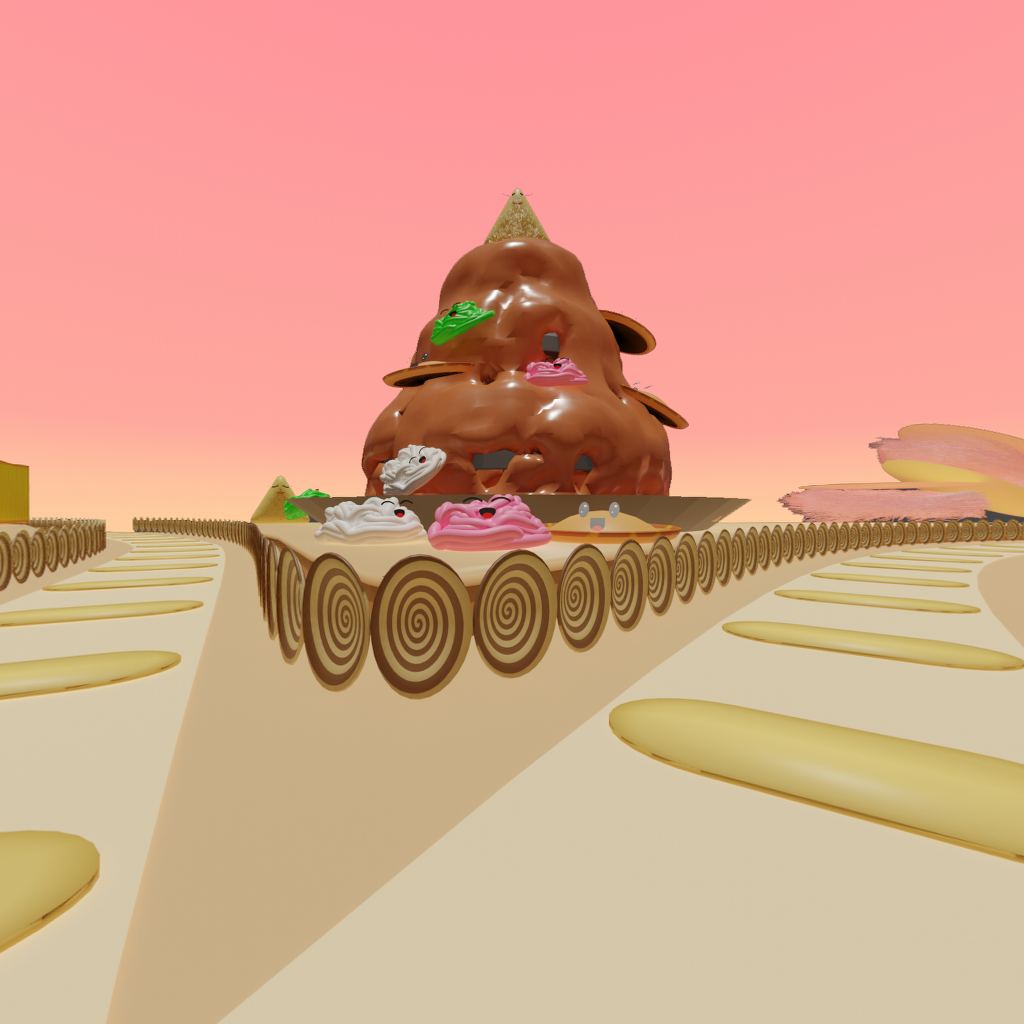
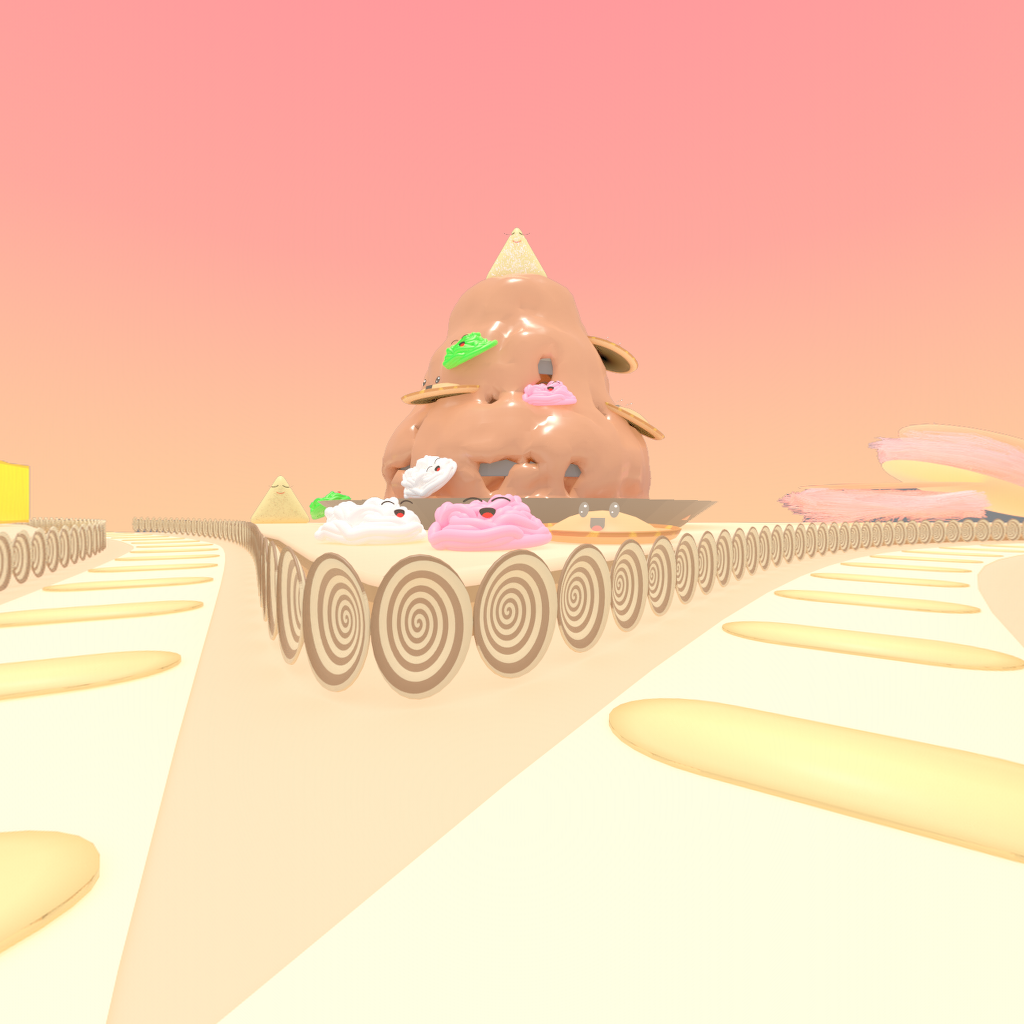
update gamma

diff --git a/js/foody-test.js b/js/foody-test.js
@@ -5,6 +5,8 @@ import { EffectComposer } from '../three/examples/jsm/postprocessing/EffectCompo
 import { RenderPass } from '../three/examples/jsm/postprocessing/RenderPass.js';
 import { ShaderPass } from '../three/examples/jsm/postprocessing/ShaderPass.js';
 import { GradientMapShader } from '../three/examples/jsm/shaders/GradientMapShader.js';
+import { BrightnessContrastShader } from '../three/examples/jsm/shaders/BrightnessContrastShader.js';
+import { GammaCorrectionShader } from '../three/examples/jsm/shaders/GammaCorrectionShader.js';
 import { Character } from './character.js';
 import { setupRenderer, setupCamera } from './essential.js';
 
@@ -41,12 +43,12 @@ let loadingScreen = document.getElementById("loading-screen");
 // let backgroundText = document.getElementById("background-text");
 
 let objectDescriptionEN = ["Martabak Manis is the king of indonesia dessert, it is sinfully good",
-"a very springy and chewy cake.","String hopper dish made of rice flour","Grandma hair but made of sugar",
+"Spongy chewy golden cake.","String hopper dish made of rice flour","Grandma hair but made of sugar",
 "Javanese sncek made of Cassava","Amazing cold dessert in indonesia since its hot here almost all year.",
 "Kue Mangkok Uhuy"]
 
-let objectDescriptionID = ["Martabak Manis adalah raja Indonesia pencuci mulut, itu adalah sinfully baik",
-"kue yang sangat kenyal dan kenyal","Piring hopper terbuat dari tepung beras", "Rambut nenek tapi terbuat dari gula",
+let objectDescriptionID = ["Martabak Manis adalah raja street food indonesia, dosa yang sangat nikmat",
+"Bika Ambon tapi bukan dari ambon","Piring hopper terbuat dari tepung beras", "Rambut nenek tapi terbuat dari gula",
 "Sncek Jawa terbuat dari Singkong", "Makanan penutup dingin yang luar biasa di Indonesia karena di sini panas hampir sepanjang tahun.",
 "Kue Mangkok Uhuy"]
 
@@ -174,6 +176,8 @@ function setupSkyBox(){
 	'images/skybox_1024/pz.png',
 	'images/skybox_1024/nz.png',
 	]);
+	skyboxTexture.format = THREE.RGBFormat;
+	skyboxTexture.encoding = THREE.sRGBEncoding;	
 	scene.background = skyboxTexture;	
 	scene.environment = skyboxTexture;	
 }
@@ -182,12 +186,12 @@ function setupLight(){
 	// ff849c pink
 	// ffce9f cream
 	const skyColor = 0xffffff; 
-	const groundColor = 0xffffff;
+	const groundColor = 0xffce9f;
 	const intensity = 1;
 	// const light = new THREE.HemisphereLight(skyColor, groundColor, intensity);
 	// scene.add( light );	
 	const ambLight = new THREE.AmbientLight( skyColor , intensity); // soft white light
-	scene.add( ambLight );	
+	scene.add( ambLight );
 }
 
 function resizeRendererToDisplaySize(renderer) {
@@ -342,7 +346,9 @@ function main(){
 	composer = new EffectComposer(renderer);
 	composer.setSize(canvas.clientWidth,canvas.clientHeight);
 	composer.addPass(new RenderPass(scene,camera));
-	composer.addPass(new ShaderPass( GradientMapShader ));
+	// composer.addPass(new ShaderPass(BrightnessContrastShader));
+	composer.addPass(new ShaderPass(GradientMapShader));
+	composer.addPass(new ShaderPass(GammaCorrectionShader));	
 	
 	setupLight();
 	setupSkyBox();
@@ -351,8 +357,38 @@ function main(){
 			let model = models[i].scene || models[i].scenes[0];	
 			let clips = models[i].animations || [];
 			model.scale.set(1,1,1);
-			model.position.set(0,0,0);
-			scene.add( model );				
+			// if(model.children[0].children.length>0){
+				// model.children[0].children.forEach(function(child){
+					// if(child.material.map != null){
+						// console.log("Image")
+					// }else{
+						// // child.material.roughness = 1;
+						// // let newMat = new THREE.MeshBasicMaterial();
+						// // newMat.color = child.material.color;
+						// // newMat.name = child.material.name;
+						// // child.material = newMat;
+					// }
+					// // console.log(child.material.name + " " + child.material.color.getHexString() );
+					// // child.material.color = child.material.color.convertSRGBToLinear();
+					// // child.material.needUpdates = true;
+				// });
+			// }else{
+				// if(model.children[0].material.map != null){
+					// console.log("Image")
+				// }else{
+					// // model.children[0].material.roughness = 1;		
+					// // let newMat = new THREE.MeshBasicMaterial();
+					// // newMat.color = model.children[0].material.color;
+					// // newMat.name = model.children[0].name;
+					// // model.children[0].material = newMat;
+				// }
+				// // console.log(model.children[0].material.name + " " + model.children[0].material.color.getHexString() );
+				// // model.children[0].material.color = model.children[0].material.color.convertSRGBToLinear();
+				// // model.children[0].material.needUpdates = true;
+			// }
+						
+			scene.add( model );		
+
 			if(clips.length != 0){
 				mixers.push(new THREE.AnimationMixer(model));
 				let action = mixers[mixers.length-1].clipAction(clips[0]);

diff --git a/js/essential.js b/js/essential.js
@@ -2,6 +2,10 @@ export function setupRenderer(renderer,canvas,paramsTone){
 	//anti alias make the object less jagged or squary feel
 	renderer = new THREE.WebGLRenderer({antialias: true, preserveDrawingBuffer: true,canvas});
 	renderer.setPixelRatio( window.devicePixelRatio );
+	renderer.outputEncoding = THREE.sRGBEncoding;
+	// renderer.toneMapping = THREE.ACESFilmicToneMapping;
+	// renderer.toneMappingExposure = 1;
+	console.log(renderer.toneMappingExposure);
 	// document.getElementById("canvasBlend").appendChild( renderer.domElement );	
 	document.body.appendChild( renderer.domElement );	
 	return renderer;

diff --git a/three/examples/jsm/shaders/BrightnessContrastShader.js b/three/examples/jsm/shaders/BrightnessContrastShader.js
@@ -10,8 +10,8 @@ var BrightnessContrastShader = {
 	uniforms: {
 
 		'tDiffuse': { value: null },
-		'brightness': { value: 0 },
-		'contrast': { value: 0 }
+		'brightness': { value: -0.2 },
+		'contrast': { value: 0.446 }
 
 	},
 
@@ -40,7 +40,7 @@ var BrightnessContrastShader = {
 		'void main() {',
 
 		'	gl_FragColor = texture2D( tDiffuse, vUv );',
-
+		
 		'	gl_FragColor.rgb += brightness;',
 
 		'	if (contrast > 0.0) {',

diff --git a/three/examples/jsm/shaders/GammaCorrectionShader.js b/three/examples/jsm/shaders/GammaCorrectionShader.js
@@ -34,7 +34,7 @@ var GammaCorrectionShader = {
 
 		'	vec4 tex = texture2D( tDiffuse, vUv );',
 
-		'	gl_FragColor = LinearTosRGB( tex );', // optional: LinearToGamma( tex, float( GAMMA_FACTOR ) );
+		'	gl_FragColor = LinearToGamma( tex, float( 1 ) );', // optional: LinearToGamma( tex, float( GAMMA_FACTOR ) );, LinearTosRGB( tex )
 
 		'}'
 
